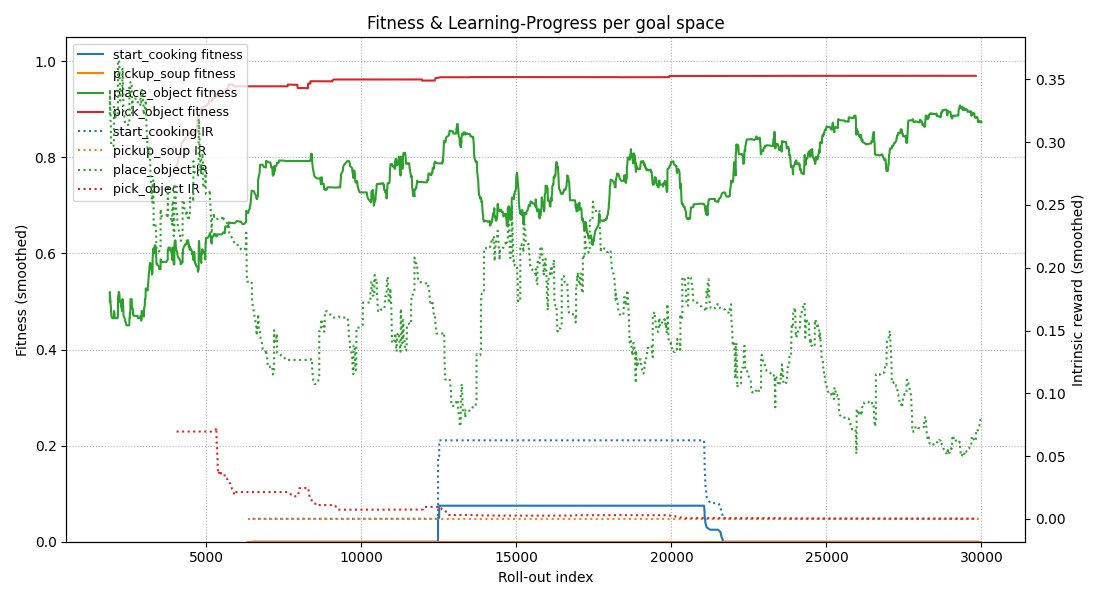
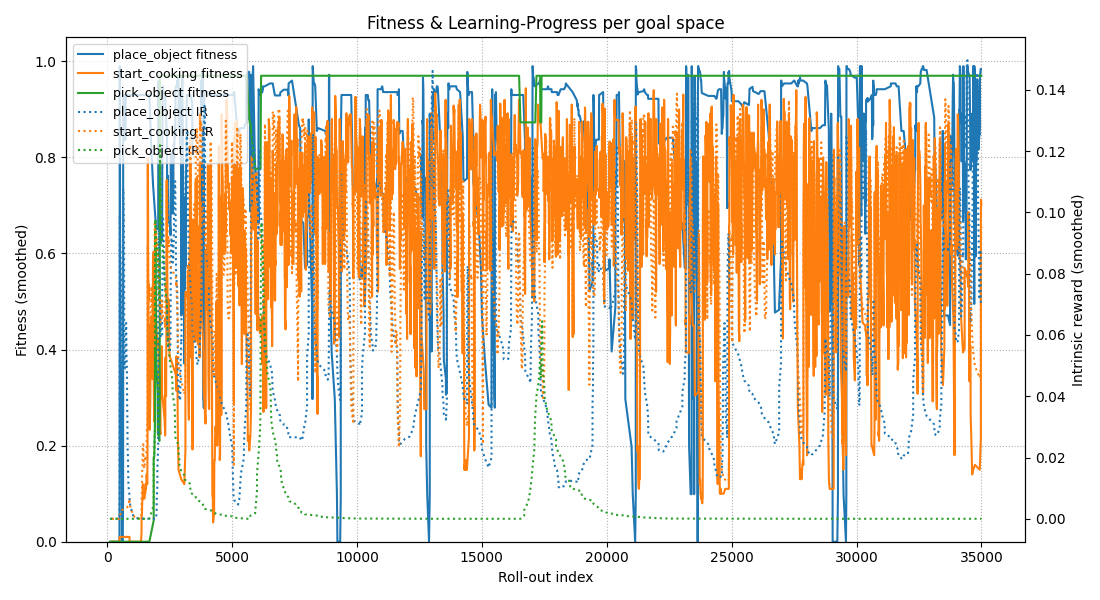
Really good 20000 trajectory!

diff --git a/imrl_agent_new/core/goal_spaces.py b/imrl_agent_new/core/goal_spaces.py
@@ -6,9 +6,9 @@ from overcooked_ai_py.mdp.overcooked_mdp import ObjectState, OvercookedGridworld
 
 class GoalSpace:
     def __init__(self, name, dim, sampler, fitness_fn, success_fn=None):
-        self.name    = name
-        self.dim     = dim
-        self.sample  = sampler
+        self.name = name
+        self.dim = dim
+        self.sample = sampler
         self.fitness = fitness_fn
         # if None, the space never triggers early stop
         self.success = success_fn or (lambda obs, g: False)
@@ -17,23 +17,27 @@ class GoalSpace:
 PICKABLE_OBJECTS = [
     ItemCode.ONION,
     # ItemCode.TOMATO,
-    # ItemCode.DISH,
+    ItemCode.DISH,
 ]
+
 
 def make_pick_object_space(length_of_trajectory: int) -> GoalSpace:
     """Goal: hold a requested object; reward falls as pickup time ↑."""
+
     def sampler():
         return random.choice(PICKABLE_OBJECTS).value
 
-    def fitness(pick_step=None):
+    def fitness(pick_step: int, g: int, end_of_episode: bool, state: OvercookedState, previous_state: OvercookedState,
+                agent_id: int, mdp: OvercookedGridworld):
         if pick_step is None:
             return 0.0
-        return 1.0 - (pick_step / max(length_of_trajectory, 1))           # fast = high
+        return 1.0 - (pick_step / max(length_of_trajectory, 1))  # fast = high
 
-    def success(agent_id: int, g, state: OvercookedState, previous_state: OvercookedState, mdp: OvercookedGridworld):
+    def success(agent_id: int, g: int, state: OvercookedState, previous_state: OvercookedState,
+                mdp: OvercookedGridworld):
         player: PlayerState = state.players[agent_id]
         held = item_to_int(player.get_object()) if player.has_object() else 0
-        if held == int(g):
+        if held == int(g) and not previous_state.players[agent_id].has_object():
             return True
         return None
 
@@ -46,7 +50,8 @@ def place_object_space(length_of_trajectory: int) -> GoalSpace:
     def sampler():
         return ItemCode.ONION
 
-    def fitness(pick_step=None):
+    def fitness(pick_step: int, g: int, end_of_episode: bool, state: OvercookedState, previous_state: OvercookedState,
+                agent_id: int, mdp: OvercookedGridworld):
         if pick_step is None:
             return 0.0
         return 1.0 - (pick_step / max(length_of_trajectory, 1))  # fast = high
@@ -79,10 +84,28 @@ def start_cooking_space(length_of_trajectory: int) -> GoalSpace:
     def sampler():
         return None
 
-    def fitness(pick_step=None):
-        if pick_step is None:
+    def fitness(pick_step: int, g: int, end_of_episode: bool, state: OvercookedState, previous_state: OvercookedState,
+                agent_id: int, mdp: OvercookedGridworld):
+        if end_of_episode:
+            if pick_step is None:
+                return 0.0
+            return 1.0 - (pick_step / max(length_of_trajectory, 1))  # fast = high
+
+        previous_agent: PlayerState = previous_state.players[agent_id]
+        current_agent = state.players[agent_id]
+        if not previous_agent.has_object() or current_agent.has_object():
             return 0.0
-        return 1.0
+
+        if make_pick_object_space(length_of_trajectory).success(agent_id, ItemCode.ONION.value, state, previous_state,
+                                                                mdp):
+            # The agent has picked up an onion
+            return 0.1
+        if place_object_space(length_of_trajectory).success(agent_id, ItemCode.ONION.value, state, previous_state, mdp):
+            # The agent has placed an onion in a pot
+            return 0.1
+
+        return 0
+
 
     def success(agent_id: int, g: int, state: OvercookedState, previous_state: OvercookedState,
                 mdp: OvercookedGridworld):
@@ -106,7 +129,6 @@ def start_cooking_space(length_of_trajectory: int) -> GoalSpace:
             if pot in adjacent_positions:
                 # The agent is adjacent to the cooking pot
                 return True
-
         return False
 
     return GoalSpace("START_COOKING", 1, sampler=sampler, fitness_fn=fitness, success_fn=success)
@@ -116,7 +138,7 @@ def pickup_soup_space(length_of_trajectory: int) -> GoalSpace:
     def sampler():
         return None
 
-    def fitness(pick_step=None):
+    def fitness(pick_step=None, *args):
         if pick_step is None:
             return 0.0
         return 1.0
@@ -137,5 +159,5 @@ def create_goal_space(length_of_trajectory):
         "place_object": place_object_space(length_of_trajectory),
         "pick_object": make_pick_object_space(length_of_trajectory),
         "start_cooking": start_cooking_space(length_of_trajectory),
-        "pickup_soup": pickup_soup_space(length_of_trajectory),
+        # "pickup_soup": pickup_soup_space(length_of_trajectory),
     }

diff --git a/imrl_agent_new/overcooked/agent.py b/imrl_agent_new/overcooked/agent.py
@@ -56,6 +56,7 @@ class IMGEPAgent(Agent):
         self.goal_reach_time_step = None
         self.parent_policy: ExperimentRecord | None = None
         self.previous_state: OvercookedState | None = None
+        self.rollout_fitness = 0.0
         # ---------- path planning --------------------------------------
         self.path = []
         super().__init__()
@@ -68,6 +69,7 @@ class IMGEPAgent(Agent):
         self.goal_space_id, self.goal_vec = self.bandit.next_goal()
         self.goal_reach_time_step = None
         self.t = 0
+        self.rollout_fitness = 0.0
         self.path = []
 
         self.use_pi = (random.random() > 0.8)
@@ -107,6 +109,16 @@ class IMGEPAgent(Agent):
                                               self.mdp) and self.goal_reach_time_step is None:
             self.goal_reach_time_step = self.t
             return Action.STAY, {}
+        if self.previous_state:
+            self.rollout_fitness += gs.fitness(
+                pick_step=self.goal_reach_time_step,
+                g=self.goal_vec,
+                end_of_episode=False,
+                state=state,
+                previous_state=self.previous_state,
+                agent_id=self.agent_id,
+                mdp=self.mdp
+            )
 
         if self.path:
             step = self.path.pop(0)
@@ -147,7 +159,16 @@ class IMGEPAgent(Agent):
                                   self.mdp)
 
         gs: GoalSpace = self.G[self.goal_space_id]
-        fitness = gs.fitness(self.goal_reach_time_step)
+        self.rollout_fitness += gs.fitness(
+            pick_step=self.goal_reach_time_step,
+            g=self.goal_vec,
+            end_of_episode=True,
+            state=final_state,
+            previous_state=self.previous_state,
+            agent_id=self.agent_id,
+            mdp=self.mdp
+        )
+
         # intrinsic reward = Δ fitness vs nearest prior experiment
         if len(self.kb) == 0 or not self.parent_policy:
             prev_f = 0.0
@@ -155,12 +176,15 @@ class IMGEPAgent(Agent):
             nearest = self.kb.nearest(self.goal_space_id, self.goal_vec, 10, self.use_pi)
             prev_f = np.mean([r.fitness for r in nearest]) if nearest else 0.0
 
-        r_i = max(0, fitness - prev_f)
+        r_i = max(0, self.rollout_fitness - prev_f)
 
         # Save the amount of records in the knowledge base based on the r_i
         # This follows the idea of neuro evolution where successful policies are recorded more often and bad policies are recorded less often
         record_amount = int(max(1, 10 * r_i))
         rollout_idx = self.kb.buffer[-1].rollout_idx + 1 if self.kb.buffer else 0
+
+        if self.use_pi:
+            self.bandit.update(self.goal_space_id, r_i)
 
         for _ in range(record_amount):
             self.kb.add_record(ExperimentRecord(
@@ -169,16 +193,12 @@ class IMGEPAgent(Agent):
                 goal_space=self.goal_space_id,
                 theta=self.neuro_policy.theta,  # store network parameters
                 outcome=outcome,
-                fitness=fitness,
-                intrinsic_reward=r_i,
+                fitness=self.rollout_fitness,
+                intrinsic_reward=self.bandit.ir_by_space[self.goal_space_id],
                 exploit=self.use_pi,
                 rollout_idx=rollout_idx,
             ))
 
-        if self.use_pi:
-            nearest = self.kb.nearest(self.goal_space_id, self.goal_vec, 10, self.use_pi)
-            avg_r_i = np.mean([r.intrinsic_reward for r in nearest]) if nearest else 0.0
-            self.bandit.update(self.goal_space_id, avg_r_i)
 
     def _get_motion_goals(self, high_level_action: HighLevelActions, state: OvercookedState):
         all_counters = self.mdp.get_counter_locations()

diff --git a/imrl_agent_new/core/goal_policy.py b/imrl_agent_new/core/goal_policy.py
@@ -31,7 +31,7 @@ class GoalSpacePolicy:
         self.alpha   = lp_alpha
 
         # running exponential averages of intrinsic reward
-        self.ir_by_space = defaultdict(float, {space_id: 1 for space_id in self.spaces})
+        self.ir_by_space = defaultdict(float, {space_id: 0 for space_id in self.spaces})
     # ---------------------------------------------------------------- PUBLIC
     def next_goal(self) -> Tuple[str, Any]:
         """
@@ -52,9 +52,7 @@ class GoalSpacePolicy:
 
     def update(self, space_id: str, intrinsic_reward: float):
         """
-        Call AFTER an *exploitation* episode with Π.
-
-        Updates the exponential moving average of learning-progress for
-        the given space.
+        Update EMA of learning progress for the given goal space.
         """
-        self.ir_by_space[space_id] = intrinsic_reward
+        old = self.ir_by_space.get(space_id, intrinsic_reward)
+        self.ir_by_space[space_id] = old + self.alpha * (intrinsic_reward - old)

diff --git a/imrl_agent_new/visualise/stats/visualise.py b/imrl_agent_new/visualise/stats/visualise.py
@@ -145,8 +145,8 @@ def make_graphs():
         if os.path.exists(path):
             print(f"✅ Found {path}")
             records = load_records(path)
-            plot_fitness(records, f"visualise/stats/fitness_plot_{ag}.png", 200)
-            plot_goalspace_distribution(records, f"visualise/stats/goalspace_dist_{ag}.png", 200)
+            plot_fitness(records, f"visualise/stats/fitness_plot_{ag}.png", 10)
+            plot_goalspace_distribution(records, f"visualise/stats/goalspace_dist_{ag}.png", 10)
             get_statistics(path)
         else:
             print(f"❌ Could not find {path}")

diff --git a/imrl_agent_new/demo_eval.py b/imrl_agent_new/demo_eval.py
@@ -32,11 +32,11 @@ base_params = {
 }
 
 agents = [IMGEPAgent(env, mdp, agent_id, horizon=HORIZON, max_dist=max_dist) for agent_id in range(2)]
-# for ag in agents: ag.kb.load_buffer("kb/buffer_rollouts" + str(ag.agent_id) + ".pkl")
+for ag in agents: ag.kb.load_buffer("kb/buffer_rollouts" + str(ag.agent_id) + ".pkl")
 # ---------------------------------------------------------------- run one roll-out
 state = env.reset()
 
-ROLL_OUTS = 30000
+ROLL_OUTS = 20000
 
 scores, dishes, fitnesses, r_is = [], [], [], []
 
